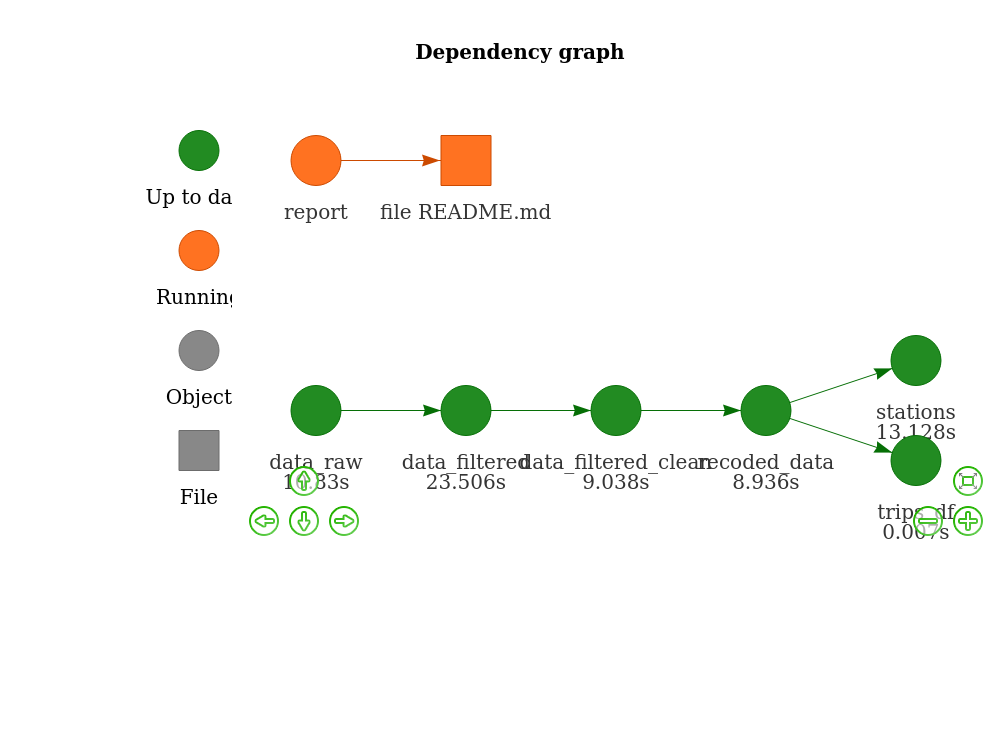
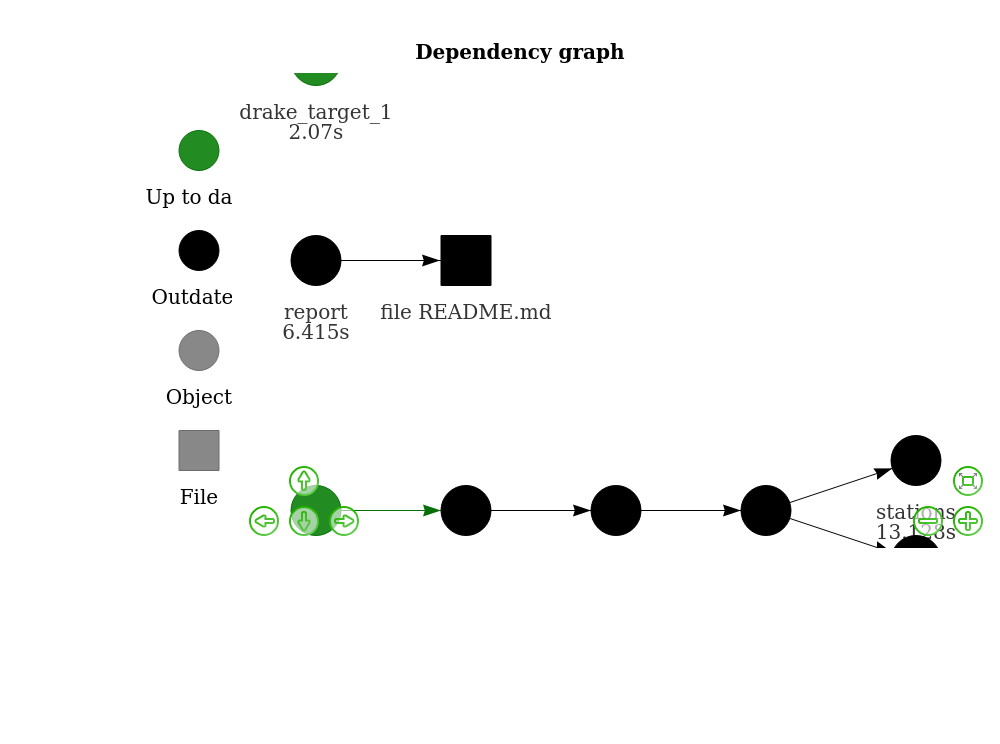
Update growth graphs again

diff --git a/README.md b/README.md
@@ -30,18 +30,37 @@ pkgs = c(
   "vroom"
 )
 pkgs_loaded = lapply(pkgs, library, character.only = TRUE, quietly = TRUE)
+#> 
+#> Attaching package: 'lubridate'
+#> The following object is masked from 'package:base':
+#> 
+#>     date
+#> Linking to GEOS 3.8.0, GDAL 3.0.2, PROJ 6.2.1
+#> ── Attaching packages ───────────────────────────────────────── tidyverse 1.3.0 ──
+#> ✔ ggplot2 3.2.1     ✔ purrr   0.3.3
+#> ✔ tibble  2.1.3     ✔ dplyr   0.8.4
+#> ✔ tidyr   1.0.2     ✔ stringr 1.4.0
+#> ✔ readr   1.3.1     ✔ forcats 0.4.0
+#> ── Conflicts ──────────────────────────────────────────── tidyverse_conflicts() ──
+#> ✖ lubridate::as.difftime() masks base::as.difftime()
+#> ✖ lubridate::date()        masks base::date()
+#> ✖ tidyr::expand()          masks drake::expand()
+#> ✖ dplyr::filter()          masks stats::filter()
+#> ✖ tidyr::gather()          masks drake::gather()
+#> ✖ lubridate::intersect()   masks base::intersect()
+#> ✖ dplyr::lag()             masks stats::lag()
+#> ✖ lubridate::setdiff()     masks base::setdiff()
+#> ✖ lubridate::union()       masks base::union()
 pkgs_loaded[[length(pkgs_loaded)]]
-#>  [1] "tidyselect" "vroom"      "tmap"       "forcats"    "stringr"   
-#>  [6] "dplyr"      "purrr"      "readr"      "tidyr"      "tibble"    
-#> [11] "ggplot2"    "tidyverse"  "stplanr"    "sf"         "patchwork" 
-#> [16] "lubridate"  "leaflet"    "fasttime"   "drake"      "stats"     
-#> [21] "graphics"   "grDevices"  "utils"      "datasets"   "methods"   
-#> [26] "base"
+#>  [1] "vroom"     "tmap"      "forcats"   "stringr"   "dplyr"     "purrr"    
+#>  [7] "readr"     "tidyr"     "tibble"    "ggplot2"   "tidyverse" "stplanr"  
+#> [13] "sf"        "patchwork" "lubridate" "leaflet"   "drake"     "stats"    
+#> [19] "graphics"  "grDevices" "utils"     "datasets"  "methods"   "base"
 
 source("R/get_london_cycle_hire_data.R")
 source("R/plan.R")
 plan
-#> # A tibble: 7 x 3
+#> # A tibble: 8 x 3
 #>   target          command                                                 format
 #>   <chr>           <expr>                                                  <chr> 
 #> 1 data_raw        fst::read.fst("data_raw_5pc.fst")                     … fst   
@@ -50,7 +69,8 @@ plan
 #> 4 recoded_data    lchs_recode(trips_df = data_filtered_clean, stations =… <NA>  
 #> 5 trips_df        recoded_data[[1]]                                     … <NA>  
 #> 6 stations        recoded_data[[2]]                                     … <NA>  
-#> 7 report          rmarkdown::render(knitr_in("README.Rmd"), output_file … <NA>
+#> 7 drake_target_1  source("code/get-global-stations.R")                  … <NA>  
+#> 8 report          rmarkdown::render(knitr_in("README.Rmd"), output_file … <NA>
 ```
 
 To reproduce all the results in the paper, you can make the plan with:
@@ -237,7 +257,21 @@ have been in operation since 1995, with the launch of a scheme in
 Copenhagen (DiDonato, Herbert, and Vachhani 2002). They have taken off
 since the early 2000s, with the greatest absolute period of growth
 occurring between around 2010 and 2015, after which the rate of new
-installations has dropped off (Figure @ref(fig:global-growth)).
+installations has dropped off (Figure
+@ref(fig:global-growth)).
+
+<div class="figure" style="text-align: center">
+
+<img src="figures/bikehshare-global-stations-growth.png" alt="Growth in docked cycle hire schemes worldwide in terms of docking stations by continent." width="80%" />
+
+<p class="caption">
+
+Growth in docked cycle hire schemes worldwide in terms of docking
+stations by continent.
+
+</p>
+
+</div>
 
 European cities pioneered shared cycle mobility, with schemes in cities
 such as Amsterdam (The Netherlands) and Renne (France) demonstrating the
@@ -251,7 +285,21 @@ substantial interest in docked cycle hire schemes, although on a smaller
 scale than those in Europe and Asia, and a handful of cycle hire schemes
 have been launched in Australia. Within this global overview, the London
 BSS is an important player, ranking 8th in the top schemes by number of
-docking stations and launching relatively early in 2010.
+docking stations and launching relatively early in
+2010.
+
+<div class="figure" style="text-align: center">
+
+<img src="figures/bikehshare-global-stations-bicycles.png" alt="Cycle hire schemes worldwide by continent, comparing number of docking stations with number of cycles." width="80%" />
+
+<p class="caption">
+
+Cycle hire schemes worldwide by continent, comparing number of docking
+stations with number of cycles.
+
+</p>
+
+</div>
 
 ## Determinants of cycle hire scheme usage
 
